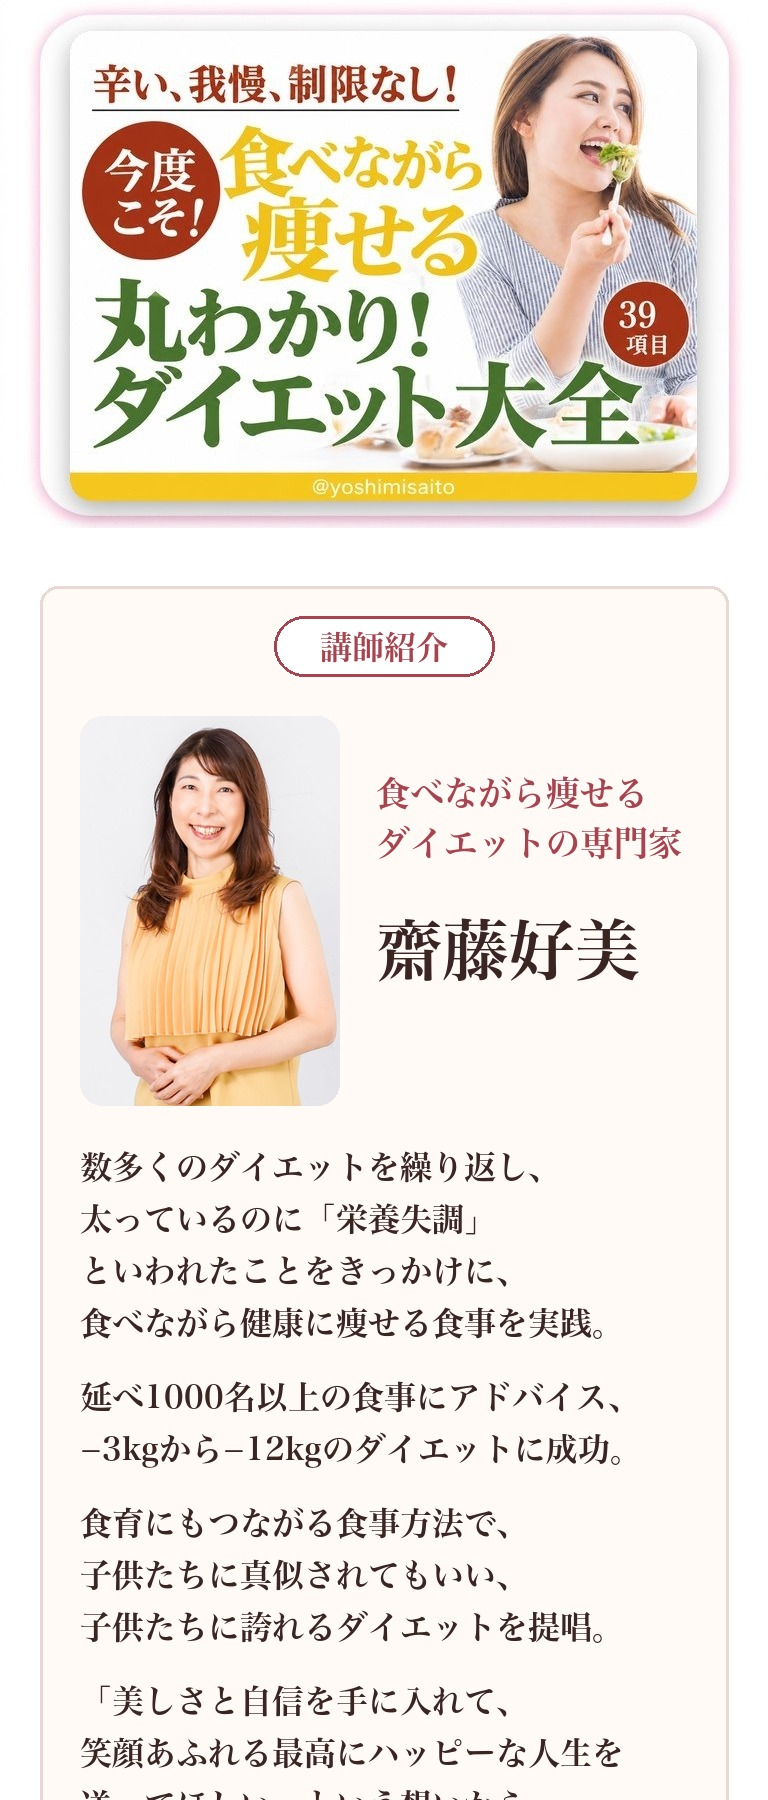
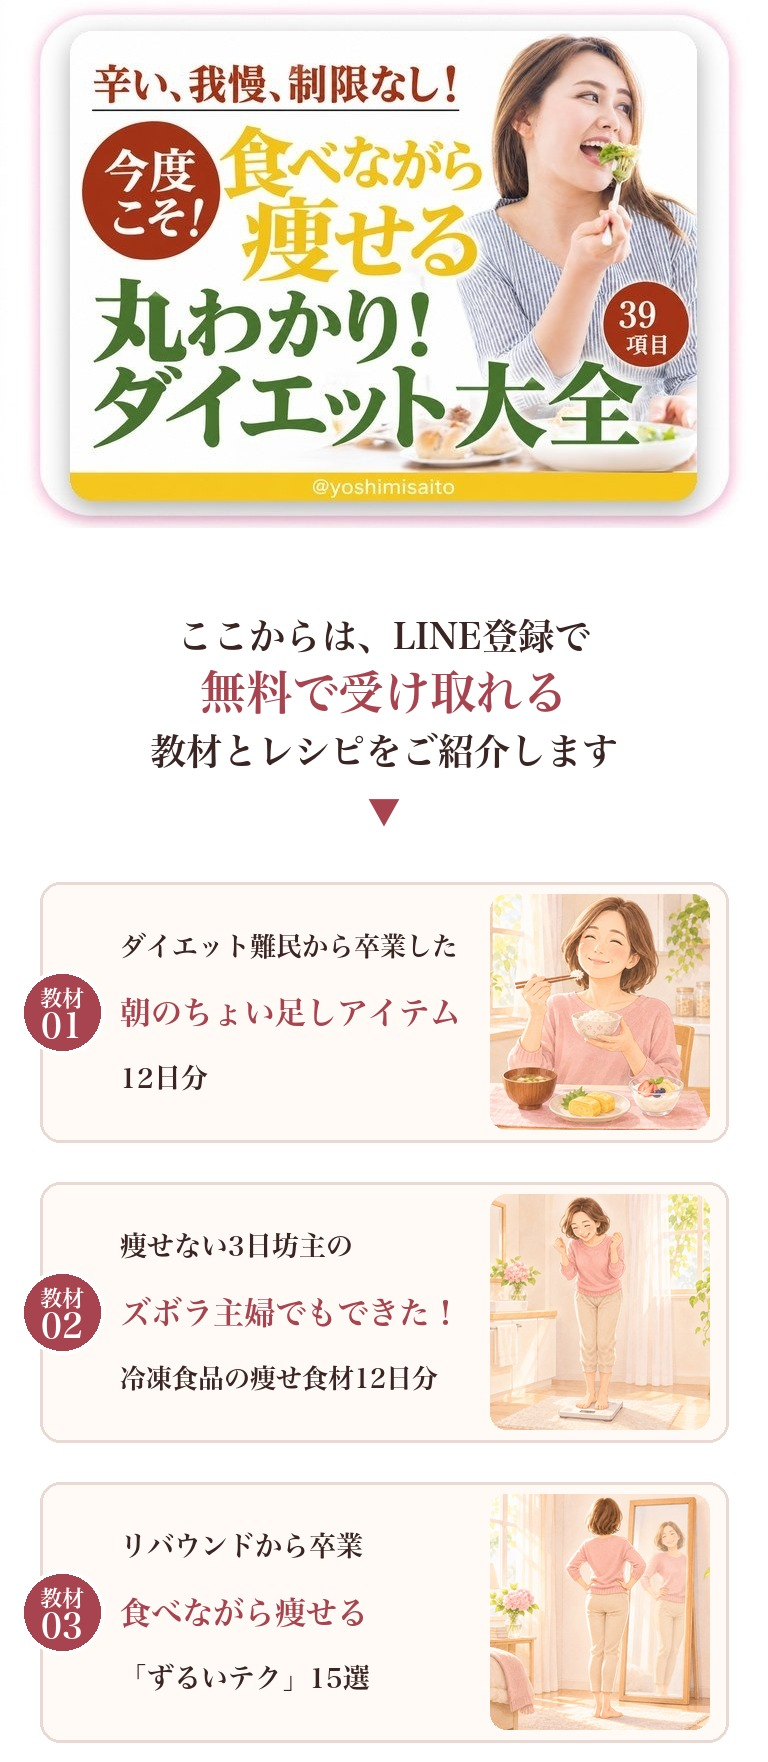
確認用ページ：教材の紹介（4つのカード＋イラスト）とボタンを追加

diff --git a/preview/index.html b/preview/index.html
@@ -2,4 +2,4 @@
 <style>body{margin:0;background:#fff}.w{max-width:480px;margin:0 auto}.w img{display:block;width:100%}
 .sticky{position:fixed;left:0;right:0;bottom:0;background:rgba(255,255,255,.95);padding:10px 14px;border-top:3px solid #f6b3c0}
 .sticky a{position:relative;display:flex;align-items:center;justify-content:center;max-width:420px;margin:0 auto;background:#06c755;color:#fff;font-weight:800;font-size:16px;white-space:nowrap;padding:0 40px 0 62px;height:58px;border-radius:999px;text-decoration:none;font-family:"Hiragino Sans",sans-serif;box-shadow:0 5px 0 #04964a;border:2px solid #7ce6a6;box-sizing:border-box}.sticky .ic{position:absolute;left:12px;top:50%;transform:translateY(-50%);width:42px;height:38px;background:#fff;border-radius:13px;color:#06c755;font-size:13px;font-weight:900;display:flex;align-items:center;justify-content:center;letter-spacing:-.5px}.sticky .ic:after{content:"";position:absolute;left:9px;bottom:-7px;border-left:6px solid transparent;border-right:6px solid transparent;border-top:9px solid #fff;transform:skewX(20deg)}.sticky .ar{position:absolute;right:18px;top:50%;transform:translateY(-50%);border-left:14px solid #fff;border-top:10px solid transparent;border-bottom:10px solid transparent}</style></head>
-<body><div class="w"><img src="q01.jpg?v=12" alt=""><a href="https://lin.ee/VeUwJHO"><img src="q02.jpg?v=12" alt=""></a><img src="q03.jpg?v=12" alt=""><img src="q04.jpg?v=12" alt=""><img src="q05.jpg?v=12" alt=""><img src="q06.jpg?v=12" alt=""><img src="q07.jpg?v=12" alt=""><img src="q08.jpg?v=12" alt=""><img src="q09.jpg?v=12" alt=""><img src="q10.jpg?v=12" alt=""><a href="https://lin.ee/VeUwJHO"><img src="q11.jpg?v=12" alt=""></a><img src="q12.jpg?v=12" alt=""><img src="q13.jpg?v=12" alt=""><img src="q14.jpg?v=12" alt=""><img src="q15.jpg?v=12" alt=""><img src="q16.jpg?v=12" alt=""><a href="https://lin.ee/VeUwJHO"><img src="q17.jpg?v=12" alt=""></a></div><div class="sticky"><a href="https://lin.ee/VeUwJHO"><span class="ic">LINE</span>教材＋レシピを無料で受け取る<span class="ar"></span></a></div></body></html>
+<body><div class="w"><img src="q01.jpg?v=13" alt=""><a href="https://lin.ee/VeUwJHO"><img src="q02.jpg?v=13" alt=""></a><img src="q03.jpg?v=13" alt=""><img src="q04.jpg?v=13" alt=""><img src="q05.jpg?v=13" alt=""><img src="q06.jpg?v=13" alt=""><img src="q07.jpg?v=13" alt=""><img src="q08.jpg?v=13" alt=""><img src="q09.jpg?v=13" alt=""><img src="q10.jpg?v=13" alt=""><a href="https://lin.ee/VeUwJHO"><img src="q11.jpg?v=13" alt=""></a><img src="q12.jpg?v=13" alt=""><img src="q13.jpg?v=13" alt=""><img src="q14.jpg?v=13" alt=""><img src="q15.jpg?v=13" alt=""><img src="q16.jpg?v=13" alt=""><a href="https://lin.ee/VeUwJHO"><img src="q17.jpg?v=13" alt=""></a><img src="q18.jpg?v=13" alt=""><a href="https://lin.ee/VeUwJHO"><img src="q19.jpg?v=13" alt=""></a></div><div class="sticky"><a href="https://lin.ee/VeUwJHO"><span class="ic">LINE</span>教材＋レシピを無料で受け取る<span class="ar"></span></a></div></body></html>
